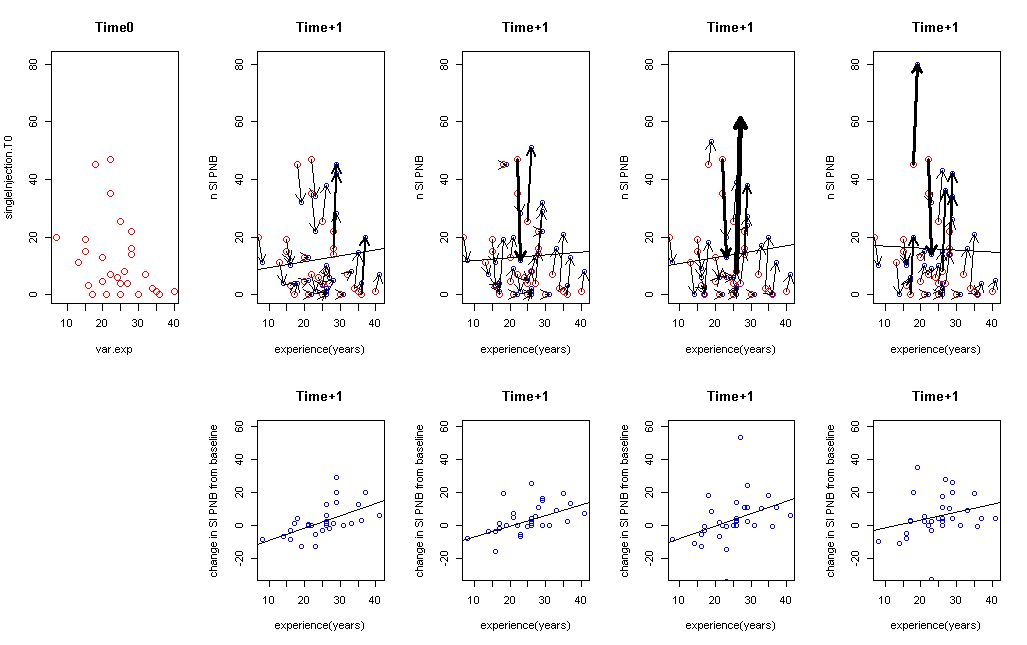
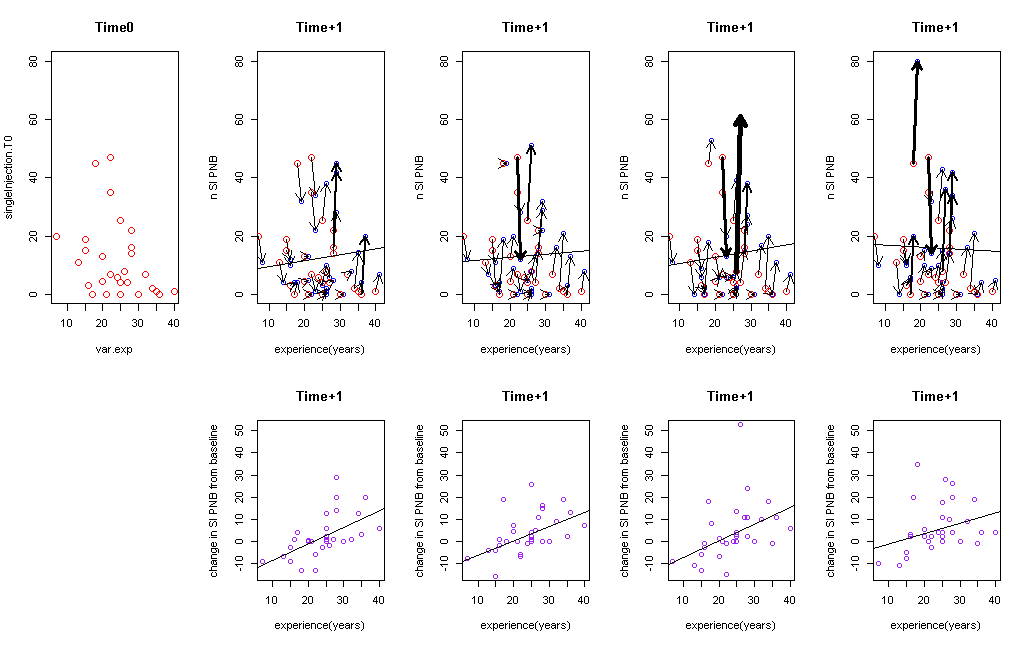
addendum3

diff --git a/README.md b/README.md
@@ -177,10 +177,9 @@ Factors related to continuous blocks remain unexplored due to sparcity of data.
 	Multiple R-squared: 0.5731,     Adjusted R-squared: 0.5256 
 	F-statistic: 12.08 on 3 and 27 DF,  p-value: 3.38e-05 
 
-The relationship between Total.singleInjection.Ag and var.exp warrants some explanation, as it holds a complex relationship with the number of blocks performed pre and post-training.
-A direct comparison between these 2 metrics reveals no direct relationship until you compare experience to the change in #PNB/month.
-Plots of Time0-Time4 are shown with respective plots of the first derivative shown below.
-I believe this is equivalent to saying that experience is related to df(PNB) = Post-training PNB - baseline PNB.
+The relationship between Total.singleInjection.Ag and var.exp has a complex relationship with the number of blocks performed pre and post-training.
+Plots of Time0-Time4 are shown with respective plots of post-PNB minus pre-PNB, showing that the relationship is to the difference and not the total #PNB themselves.
+In this unusual example, less experience (<20 years) is actually associated with a reduction in practice, with higher quantiles of experience (>25 years) showing the most pronounced numerical increase. 
 
 ![alt tag](https://raw.githubusercontent.com/ajkou/FAER_Study/master/22%20tseries%20SIvsExp.png)
 
